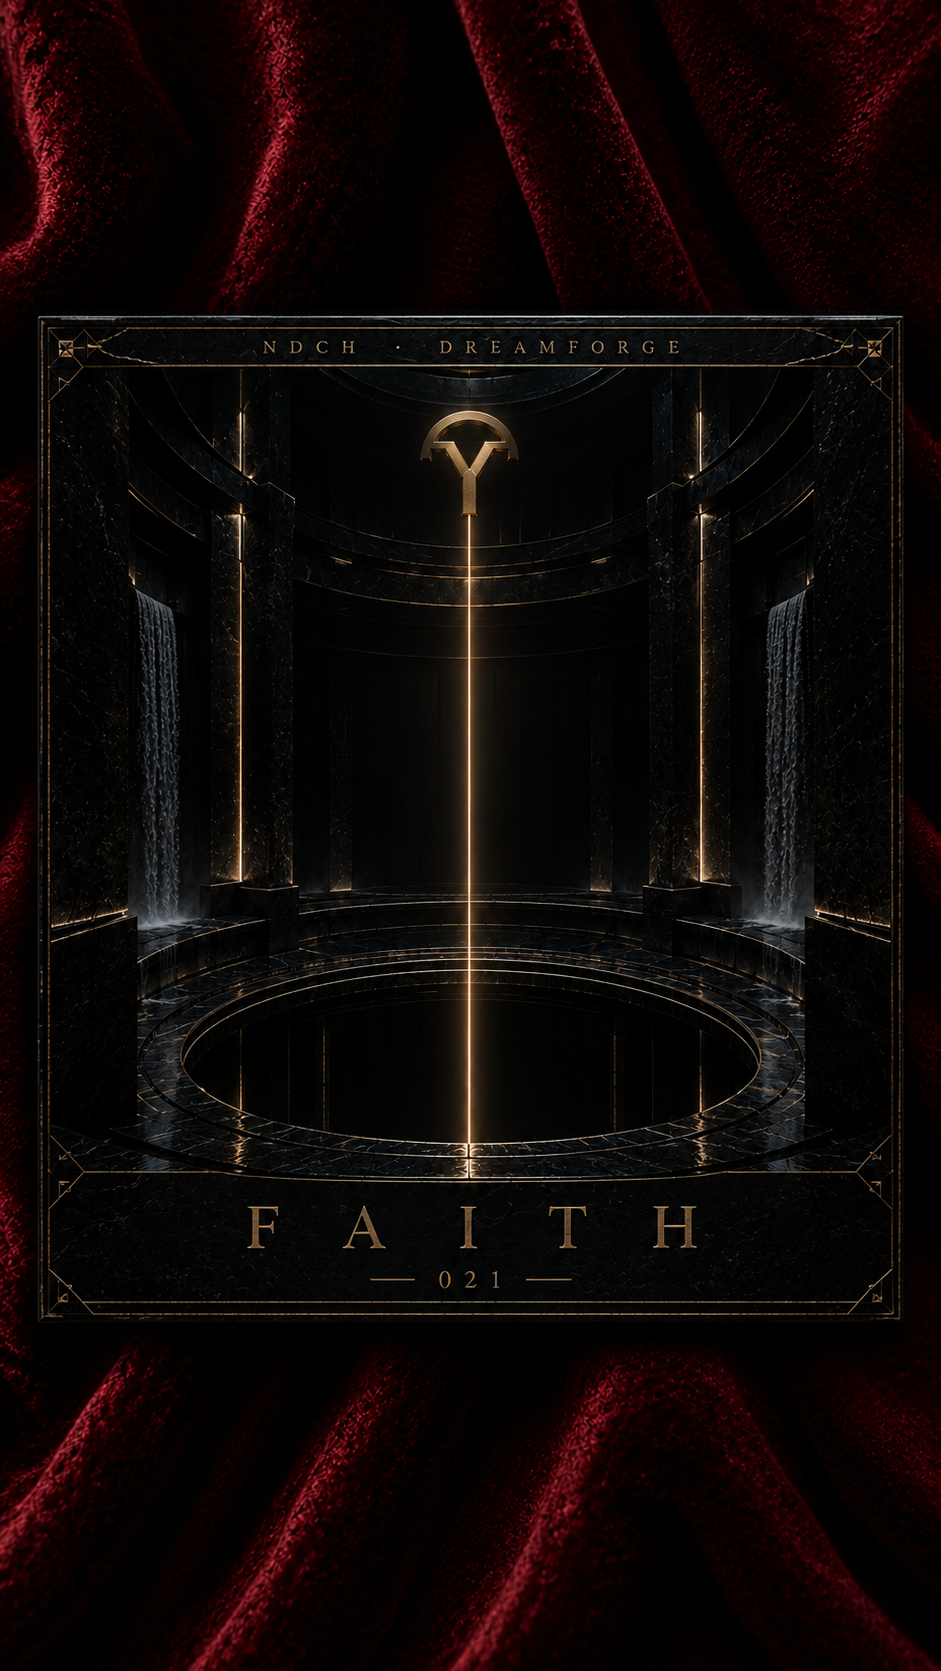
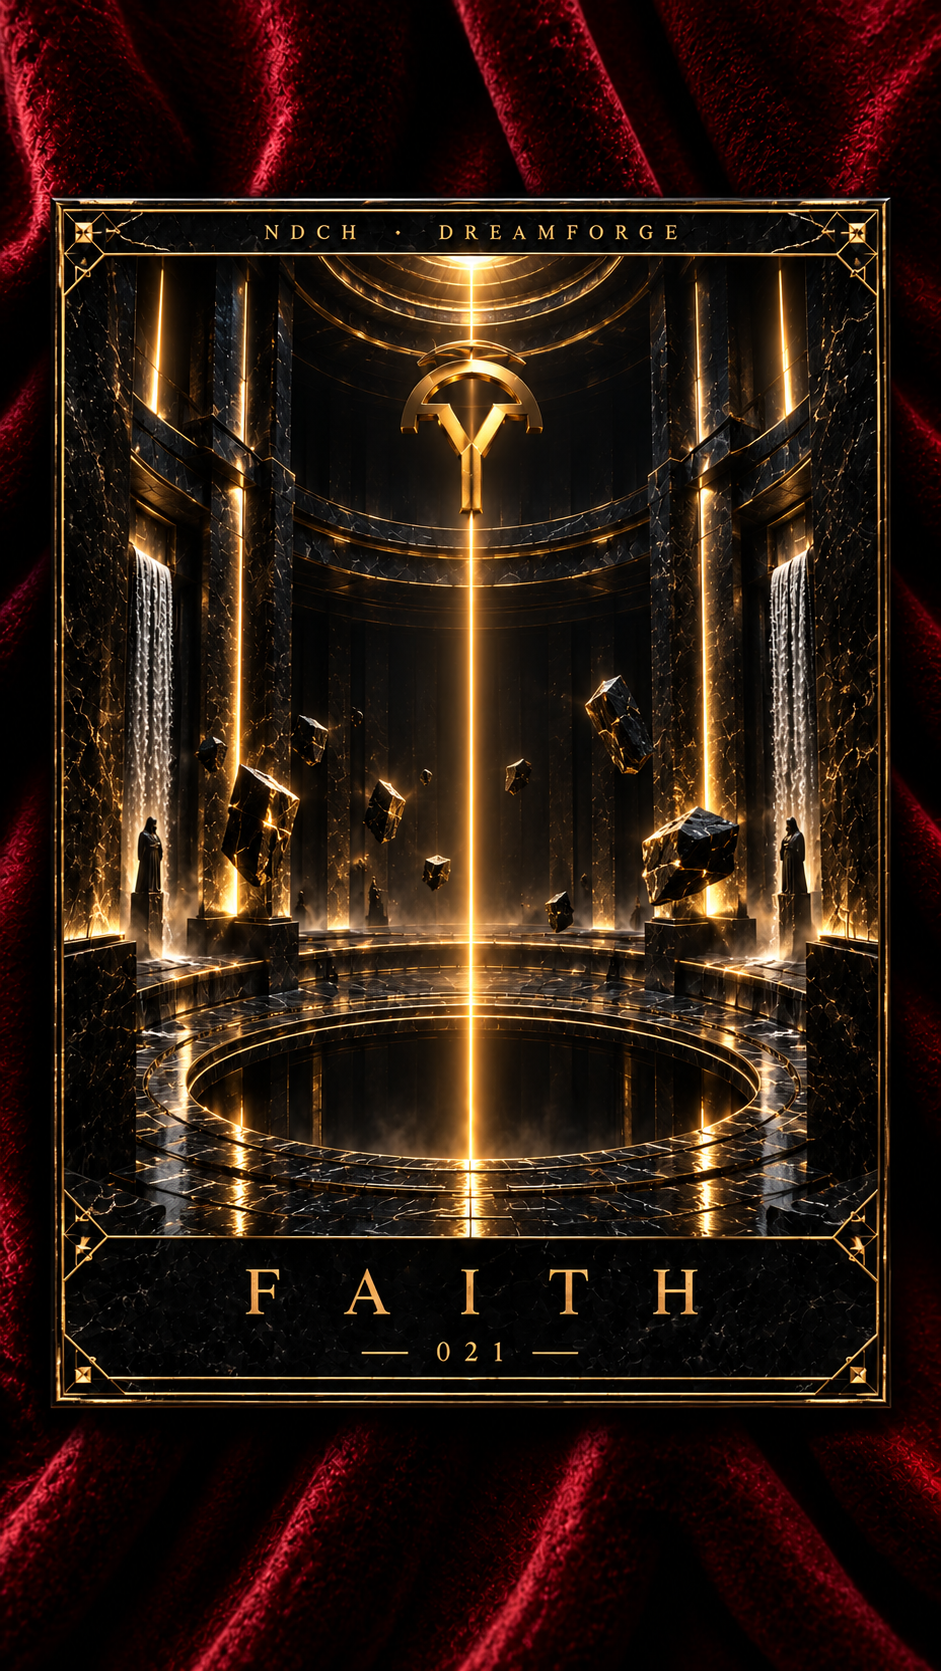
Covers: brighter red-velvet verticals for 021 FAITH, 022 THE STATUE, 023 AXIOM (#210)
New verticals as supplied; previous versions kept (021/022 as _alt, 023's
morning cover as _alt2). index.json sizes and notes updated; README house
style now says red velvet.

Claude-Session: https://claude.ai/code/session_01N37C58WLFP1vK3QeFUnCM4

diff --git a/assets/covers/README.md b/assets/covers/README.md
@@ -5,7 +5,7 @@ Final published covers, two per reel:
 - `<posting>_<TITLE>_vertical.png`: the vertical cover (LinkedIn / Reels / Shorts). This is the one actually used.
 - `<posting>_<TITLE>_horizontal.png`: the wide YouTube-style version.
 
-Some reels also have `_vertical_alt.png` / `_horizontal_alt.png`: an earlier
+Some reels also have `_vertical_alt.png` / `_horizontal_alt.png` (and `_alt2`, ...): an earlier
 design kept for the record (e.g. the black-and-gold covers of 016 and 017
 before the velvet style). The plain `_vertical` / `_horizontal` file is the
 one in use.
@@ -21,7 +21,7 @@ received (no resizing or recompression).
 House style, for any future automated covers: an "NDCH · DREAMFORGE" header,
 a thin gold frame with diamond corner ornaments, black stone with gold veining,
 the NDCH arch-and-Y emblem, the title in spaced gold capitals, the posting
-number between gold rules, and a deep-blue velvet surround.
+number between gold rules, and a deep-red velvet surround (recent covers; some earlier ones use blue).
 
 Not read by the engine. The style references for generation live in
 `../cover_references/`.
